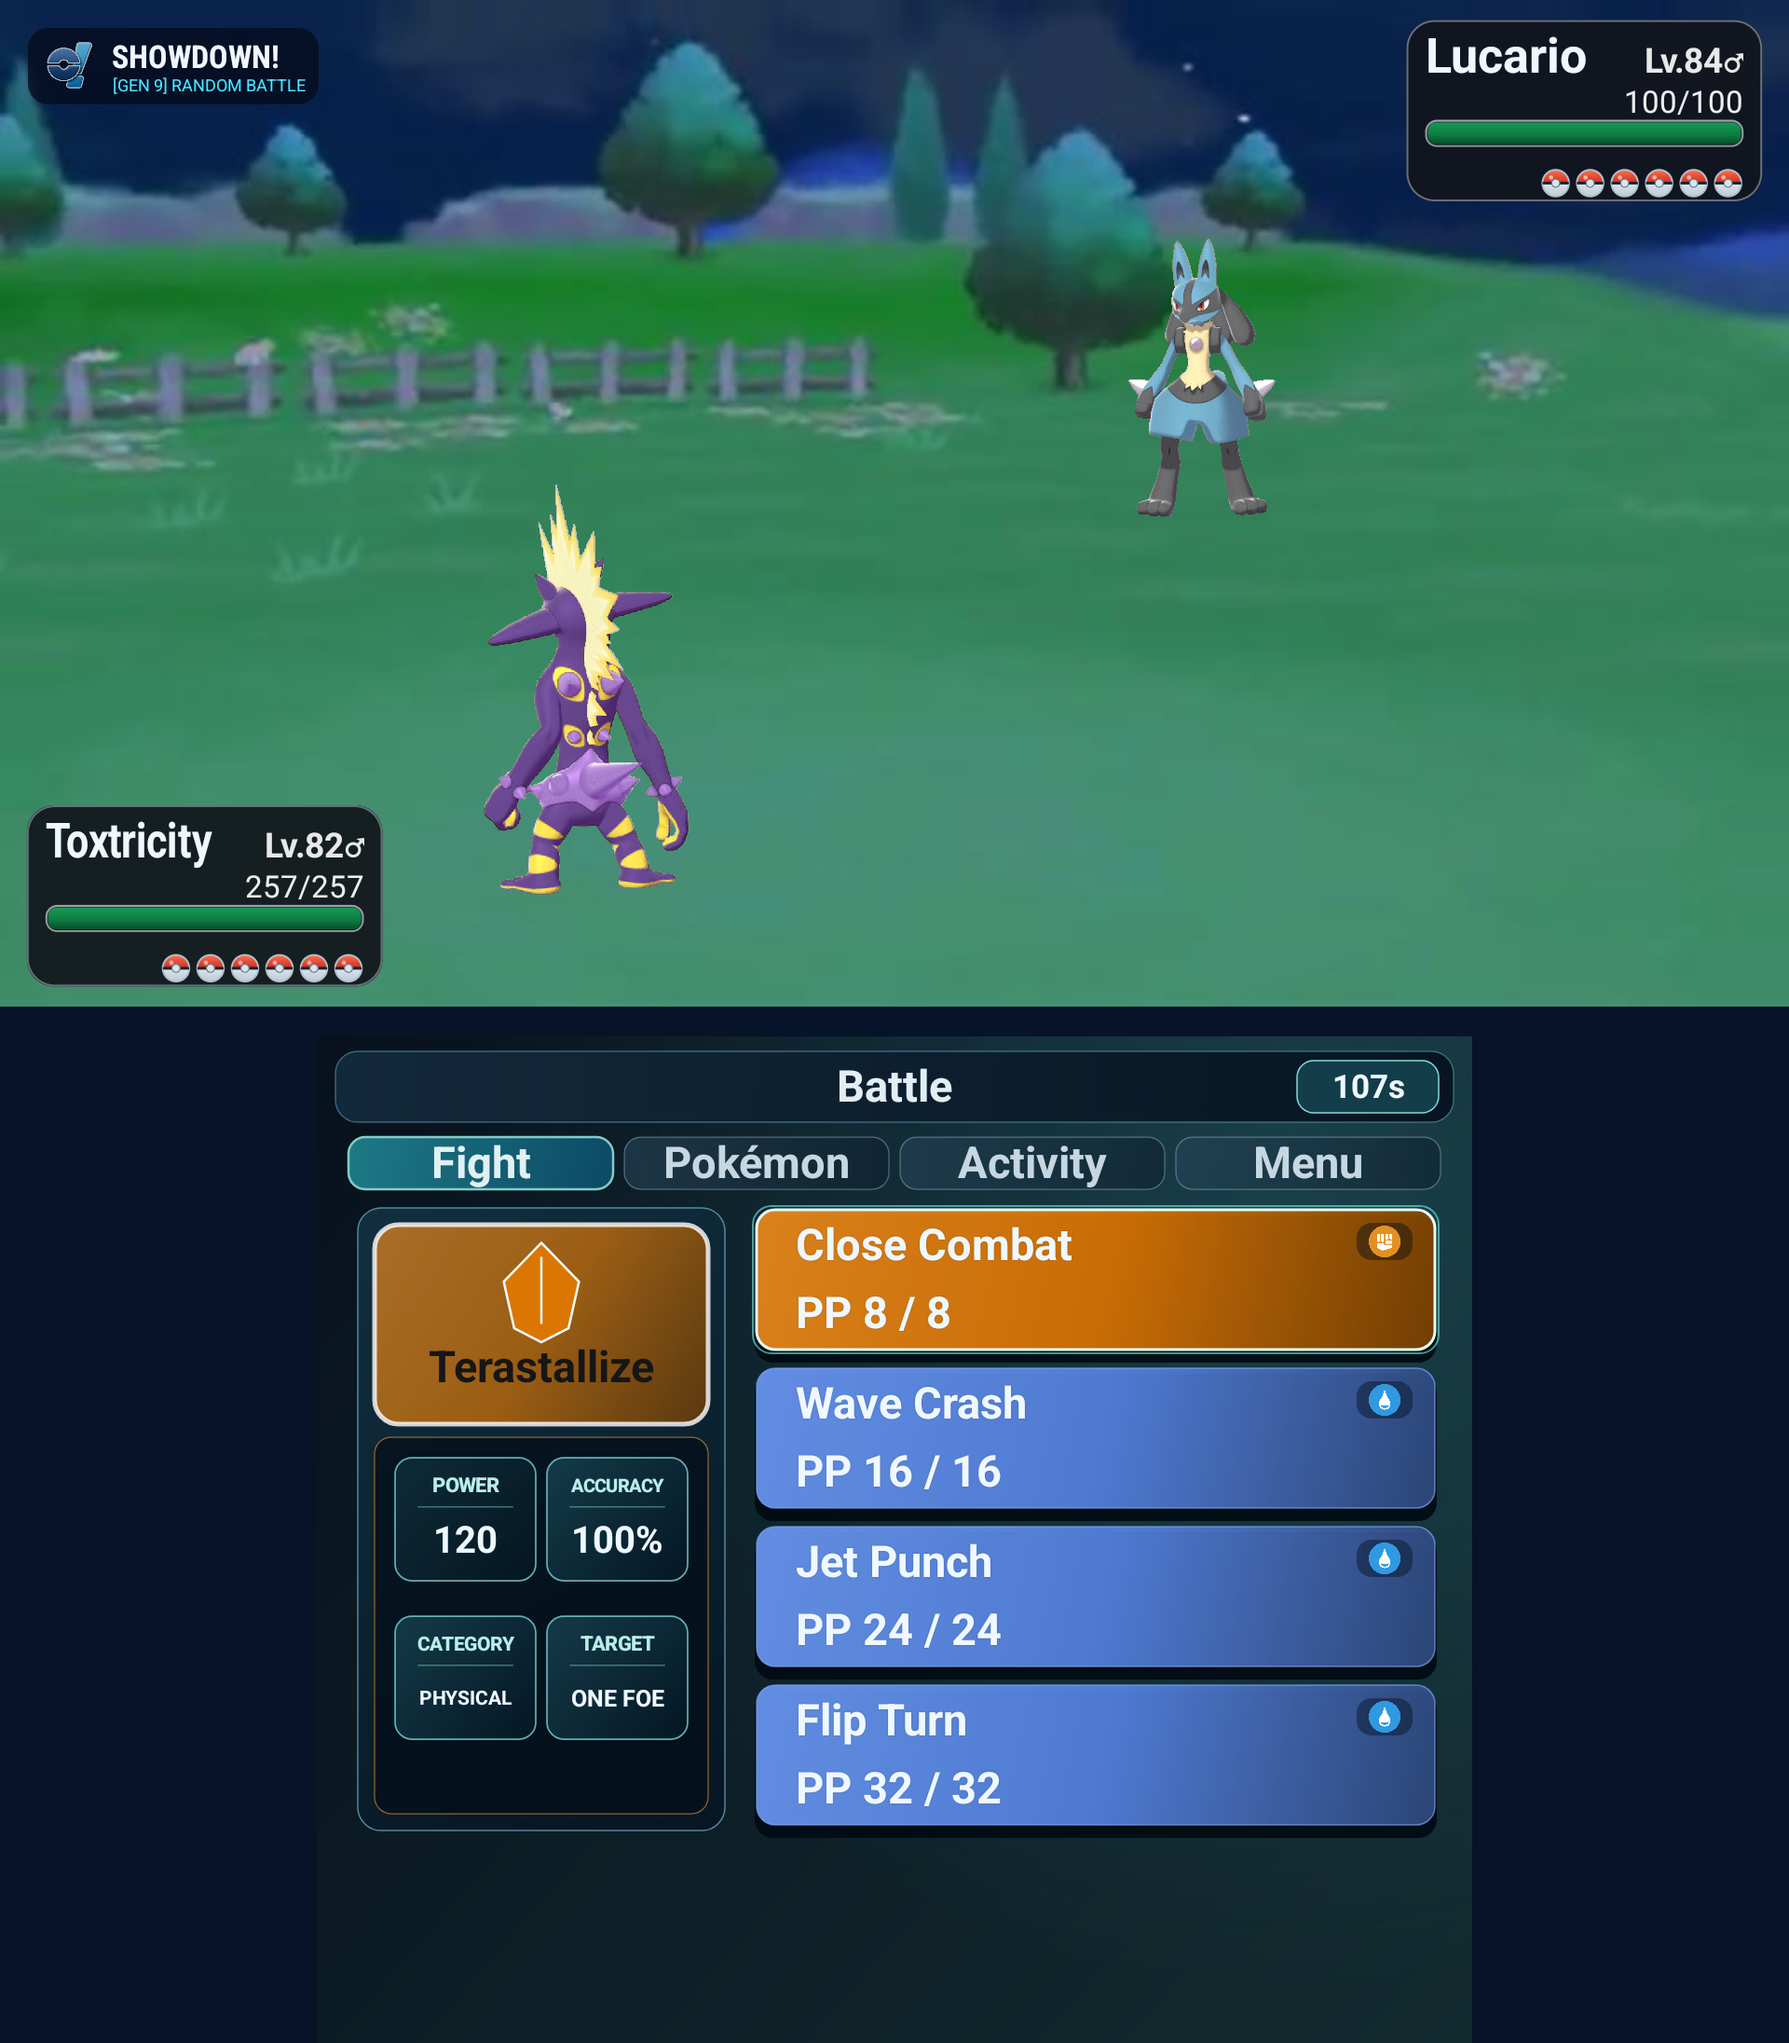
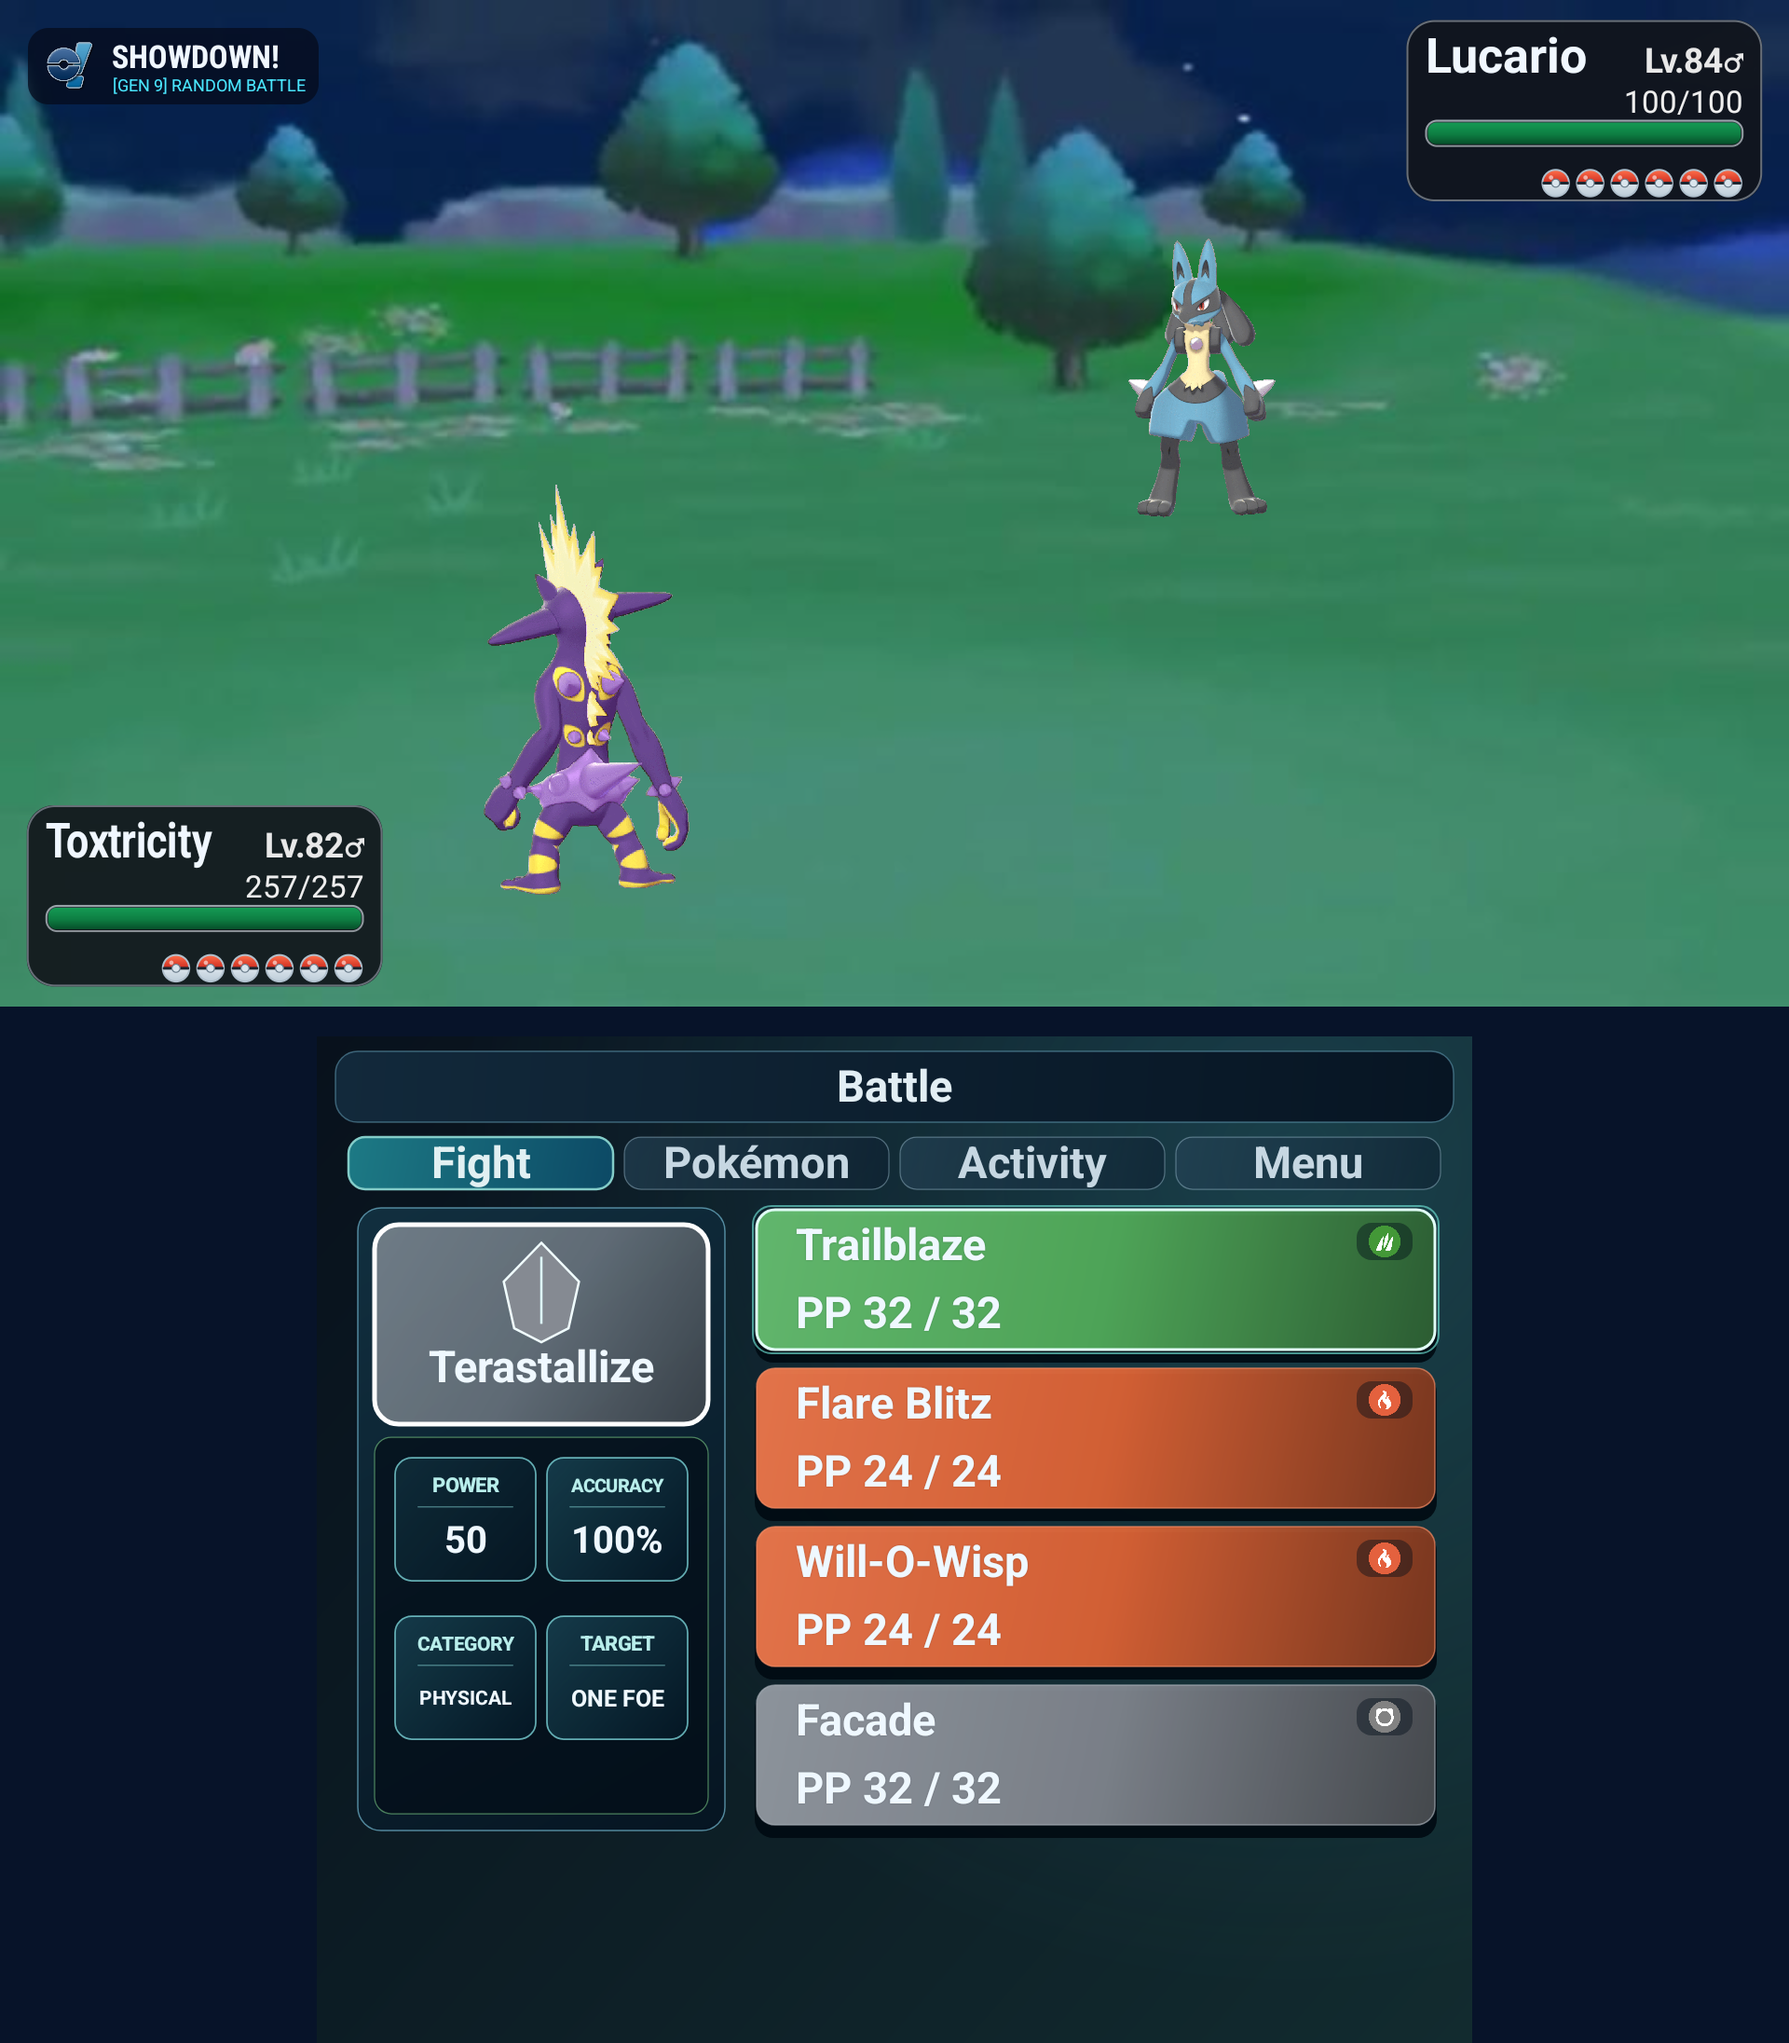
fix(ui): improve gimmick text contrast and captures

Changed region(s): [[0.1875, 0.5894, 0.8125, 0.8996], [0.7188, 0.4964, 0.8125, 0.5584], [0.25, 0.7445, 0.2812, 0.7755]]

diff --git a/app/src/main/kotlin/dev/adrian/showdown/CommandDeckView.kt b/app/src/main/kotlin/dev/adrian/showdown/CommandDeckView.kt
@@ -1357,7 +1357,7 @@ class CommandDeckView(
             paint.textAlign = Paint.Align.CENTER
             paint.typeface = android.graphics.Typeface.create("sans-serif", android.graphics.Typeface.BOLD)
             paint.textSize = readableTextSize(if (gimmicks.size > 2) 22f else 36f, scale, 20f)
-            paint.color = if (selected) Color.rgb(22, 22, 22) else PAPER
+            paint.color = PAPER
             val label = if (gimmicks.size > 2) compactGimmickLabel(gimmick) else session.gimmickLabel(gimmick)
             val labelInset = if (gimmicks.size > 2) 8f * scale else 24f * scale
             paint.textSize = fittedTextSize(label, card.width() - labelInset, paint.textSize, 10f * scale)
